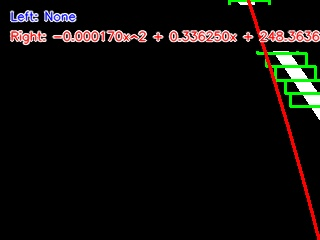
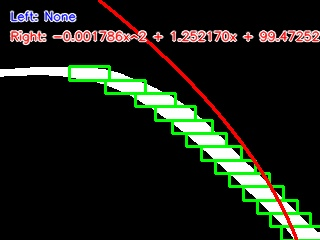
단순한 조향 알고리즘

Changed region(s): [[0.0, 0.0, 1.0, 1.0], [0.2812, 0.0, 0.4375, 0.175], [0.5, 0.1167, 0.7188, 0.175]]

diff --git a/client/슬라이딩윈도우용.py b/client/슬라이딩윈도우용.py
@@ -1,0 +1,164 @@
+import socketio
+import time
+import numpy as np
+import atexit
+from picamera2 import Picamera2
+from board import SCL, SDA
+import busio
+from gpiozero import DistanceSensor
+from adafruit_pca9685 import PCA9685
+from adafruit_motor import motor, servo
+import time
+import cv2
+
+class CarConfig:
+    # GPIO 핀 설정
+    MOTOR_M1_IN1 = 15
+    MOTOR_M1_IN2 = 14
+    TRIGGER_PIN = 23
+    ECHO_PIN = 24
+    
+    # 서보모터 설정
+    SERVO_STEERING_DEFAULT = 
+    CAMERA_HORIZONTAL_DEFAULT = 
+    CAMERA_VERTICAL_DEFAULT = 
+    SERVO_MIN_PULSE = 500
+    SERVO_MAX_PULSE = 2400
+    SERVO_RANGE = 160
+    
+    # PCA9685 설정
+    PCA_ADDRESS = 0x5f
+    PCA_FREQUENCY = 50
+    
+    # 카메라 설정
+    CAMERA_FORMAT = 'BGR888'
+    CAMERA_SIZE = (640, 480)
+    
+    # 서버 설정
+    SERVER_URL = 'http://192.168.0.:5000'
+
+class CarController:
+    def __init__(self):
+        self.init_hardware()
+        self.init_camera()
+        self.init_socket()
+        atexit.register(self.cleanup)
+    
+    def init_hardware(self):
+        # I2C 및 PCA9685 초기화
+        self.i2c = busio.I2C(SCL, SDA)
+        self.pca = PCA9685(self.i2c, address=CarConfig.PCA_ADDRESS)
+        self.pca.frequency = CarConfig.PCA_FREQUENCY
+        
+        # 모터 초기화
+        self.motor = motor.DCMotor(
+            self.pca.channels[CarConfig.MOTOR_M1_IN1],
+            self.pca.channels[CarConfig.MOTOR_M1_IN2]
+        )
+        self.motor.decay_mode = motor.SLOW_DECAY
+        
+        # 서보모터 초기화
+        self.init_servos()
+        
+        # 초음파 센서 초기화
+        self.distance_sensor = DistanceSensor(
+            echo=CarConfig.ECHO_PIN,
+            trigger=CarConfig.TRIGGER_PIN,
+            max_distance=2
+        )
+    
+    def init_servos(self):
+         # 조향 서보
+        self.steering = servo.Servo(
+            self.pca.channels[0],
+            min_pulse=CarConfig.SERVO_MIN_PULSE,
+            max_pulse=CarConfig.SERVO_MAX_PULSE,
+            actuation_range=CarConfig.SERVO_RANGE
+        )
+        self.steering.angle = CarConfig.SERVO_STEERING_DEFAULT
+        
+        # 카메라 서보
+        self.camera_horizontal = servo.Servo(
+            self.pca.channels[2],
+            min_pulse=CarConfig.SERVO_MIN_PULSE,
+            max_pulse=CarConfig.SERVO_MAX_PULSE,
+            actuation_range=CarConfig.SERVO_RANGE
+        )
+        self.camera_horizontal.angle = CarConfig.CAMERA_HORIZONTAL_DEFAULT
+        
+        self.camera_vertical = servo.Servo(
+            self.pca.channels[4],
+            min_pulse=CarConfig.SERVO_MIN_PULSE,
+            max_pulse=CarConfig.SERVO_MAX_PULSE,
+            actuation_range=CarConfig.SERVO_RANGE
+        )
+        self.camera_vertical.angle = CarConfig.CAMERA_VERTICAL_DEFAULT
+    
+    def init_camera(self):
+        self.camera = Picamera2()
+        self.camera.configure(self.camera.create_preview_configuration(
+            main={"format": CarConfig.CAMERA_FORMAT, "size": CarConfig.CAMERA_SIZE}
+        ))
+        self.camera.start()
+    
+    def init_socket(self):
+        self.sio = socketio.Client()
+        self.setup_socket_events()
+    
+    def setup_socket_events(self):
+        @self.sio.event
+        def connect():
+            print("서버에 연결되었습니다.")
+            
+        @self.sio.event
+        def disconnect():
+            print("서버와의 연결이 종료되었습니다.")
+            
+        @self.sio.on('registration_success')
+        def on_registration_success(data):
+            car_number = data['car_number']
+            print(f"자동차 등록 성공: 자동차 번호 {car_number}")
+            
+        @self.sio.on('registration_failed')
+        def on_registration_failed(data):
+            print("자동차 등록 실패:", data['message'])
+            
+        @self.sio.on('error')
+        def on_error(data):
+            print("에러 발생:", data['message'])
+            
+        @self.sio.on('data')
+        def on_data(data):
+            self.motor.throttle = data['speed']
+            self.steering.angle = CarConfig.CAMERA_HORIZONTAL_DEFAULT + data['angle']
+    
+    def cleanup(self):
+        print("프로그램 종료 중, 모터 초기화 중...")
+        self.motor.throttle = 0
+        self.steering.angle = CarConfig.SERVO_STEERING_DEFAULT
+        self.camera_vertical.angle = CarConfig.CAMERA_VERTICAL_DEFAULT
+        self.camera_horizontal.angle = CarConfig.CAMERA_HORIZONTAL_DEFAULT
+        self.pca.deinit()
+        print("모터 초기화 완료.")
+    
+    def run(self):
+        try:
+            self.sio.connect(CarConfig.SERVER_URL)
+            
+            while True:
+                frame = self.camera.capture_array()
+                _, buffer = cv2.imencode('.jpg', frame)
+                distance = self.distance_sensor.distance
+                self.sio.emit('frame', {
+                    'frame': buffer.tobytes(),
+                    'distance': distance
+                })
+                time.sleep(0.1)
+                
+        except Exception as e:
+            print(f"오류 발생: {e}")
+            return
+
+if __name__ == '__main__':
+    car = CarController()
+    car.run()

diff --git a/slidingWindow/steering_controller.py b/slidingWindow/steering_controller.py
@@ -1,0 +1,86 @@
+import numpy as np
+
+class SteeringController:
+    def __init__(self):
+        # 이미지 관련 (픽셀 단위)
+        self.image_center = 160          # 워핑된 이미지의 중앙점 (320/2)
+        self.lane_width_pixels = 320     # 워핑된 이미지에서의 차선 간 픽셀 거리
+        
+        # 실제 물리적 거리 (cm 단위)
+        self.lane_width_cm = 22          # 실제 차선 간 거리
+        self.camera_forward_distance = 30 # 차량 중심부터 카메라 인식 지점까지 거리
+        
+        # 픽셀당 실제 거리 비율 계산 (cm/pixel)
+        self.cm_per_pixel = self.lane_width_cm / self.lane_width_pixels
+        
+        # 조향 제어 관련
+        self.error_scaling_factor = 3.6  # 기하학적 계산 결과를 미세 조정
+        self.last_steering_angle = 0
+
+    def calculate_steering_angle(self, left_fit, right_fit):
+        try:
+            y_eval = int(240 * 0.6)
+            
+            if left_fit is not None and right_fit is not None:
+                left_x = left_fit[0] * y_eval**2 + left_fit[1] * y_eval + left_fit[2]
+                right_x = right_fit[0] * y_eval**2 + right_fit[1] * y_eval + right_fit[2]
+                center_x = (left_x + right_x) / 2
+            elif right_fit is not None:
+                right_x = right_fit[0] * y_eval**2 + right_fit[1] * y_eval + right_fit[2]
+                center_x = right_x - self.lane_width_pixels/2
+            elif left_fit is not None:
+                left_x = left_fit[0] * y_eval**2 + left_fit[1] * y_eval + left_fit[2]
+                center_x = left_x + self.lane_width_pixels/2
+            else:
+                return self.last_steering_angle
+                
+            # 픽셀 단위 오차
+            error_pixels = center_x - self.image_center
+            
+            # 실제 거리(cm) 단위로 변환
+            error_cm = error_pixels * self.cm_per_pixel
+            
+            # 기하학적 계산으로 기본 조향각 계산
+            base_angle = np.degrees(np.arctan2(error_cm, self.camera_forward_distance))
+            
+            # error_scaling_factor를 적용하여 조향각 미세 조정
+            steering_angle = base_angle * self.error_scaling_factor
+            
+            # 조향각 제한
+            max_angle = 60
+            steering_angle = np.clip(steering_angle, -max_angle, max_angle)
+            
+            # 급격한 조향 변화 방지
+            max_angle_change = 10
+            angle_diff = steering_angle - self.last_steering_angle
+            if abs(angle_diff) > max_angle_change:
+                steering_angle = self.last_steering_angle + np.sign(angle_diff) * max_angle_change
+                
+            self.last_steering_angle = steering_angle
+            return steering_angle
+            
+        except Exception as e:
+            print(f"조향각 계산 중 오류 발생: {e}")
+            return self.last_steering_angle
+
+    def visualize_steering(self, image, steering_angle):
+        """
+        조향 정보를 이미지에 시각화
+        """
+        import cv2
+        
+        # 중앙선 그리기
+        cv2.line(image, (self.image_center, 240), (self.image_center, 0), (0, 255, 0), 1)
+        
+        # 조향 방향 화살표 그리기
+        arrow_length = 50
+        arrow_x = self.image_center + int(arrow_length * np.sin(np.radians(steering_angle)))
+        arrow_y = 200  # 이미지 상단에서 40픽셀 아래
+        cv2.arrowedLine(image, (self.image_center, 240), (arrow_x, arrow_y), 
+                       (0, 0, 255), 2)
+        
+        # 조향각 텍스트 표시
+        cv2.putText(image, f"Steering: {steering_angle:.1f}deg", (10, 30), 
+                   cv2.FONT_HERSHEY_SIMPLEX, 1, (255, 255, 255), 2)
+        
+        return image 

diff --git a/slidingWindow/main.py b/slidingWindow/main.py
@@ -1,8 +1,10 @@
 import cv2
 import numpy as np
+import scipy as sp
 
 # image_setting.py와 sliding_window.py 모듈에서 필요한 클래스와 함수 가져오기
 from sliding_window import SlidingWindow
+from steering_controller import SteeringController
 
 from flask import Flask
 from flask_socketio import SocketIO, emit
@@ -19,6 +21,9 @@ frame_number = 0
 # 저장 디렉토리 설정
 OUTPUT_DIR = "frames"
 os.makedirs(OUTPUT_DIR, exist_ok=True)
+
+# 전역 변수에 추가
+steering_controller = SteeringController()
 
 @socketio.on('connect')
 def handle_connect():
@@ -58,7 +63,16 @@ def handle_frame(data):
 
         # 슬라이딩 윈도우 적용
         polynomial_image, left_fit, right_fit = window.fit_polynomial(morphological_transformation_image, capture_frame)
+        
+        # polynomial_image 복사
+        steering_visualization = polynomial_image.copy()
+        
+        # 조향 정보를 이미지에 시각화
+        steering_angle = steering_controller.calculate_steering_angle(left_fit, right_fit)
+        steering_visualization = steering_controller.visualize_steering(steering_visualization, steering_angle)
 
+        socketio.emit('data', {'angle': -steering_angle, 'speed': 0.3})
+        
         # 좌우 차선 위치 계산
         if capture_frame % 10 == 0:
             lpos = window.warp_point(window.l_pos)
@@ -85,6 +99,9 @@ def handle_frame(data):
         cv2.imwrite(os.path.join(save_dir, "step5_adaptive_threshold.jpg"), lane)
         cv2.imwrite(os.path.join(save_dir, "step6_morphological.jpg"), morphological_transformation_image)
         cv2.imwrite(os.path.join(save_dir, "step7_polynomial_fitted.jpg"), polynomial_image)
+        cv2.imwrite(os.path.join(save_dir, "step8_steering_visualization.jpg"), steering_visualization)
+        
+        
         
     except Exception as e:
         print(f"프레임 처리 중 오류 발생: {e}")

diff --git a/slidingWindow/sliding_window.py b/slidingWindow/sliding_window.py
@@ -33,12 +33,12 @@ class SlidingWindow:
         warp_image_width = HALF_WIDTH
         warp_image_height = HALF_HEIGHT
 
-        warp_x_margin = 160
+        warp_x_margin = 240
         warp_y_margin = 3
 
-        src_pts1 = (240 - warp_x_margin, HALF_HEIGHT + 60)
+        src_pts1 = (240 - warp_x_margin, HALF_HEIGHT + 20)
         src_pts2 = (0, IMAGE_HEIGHT - 20)
-        src_pts3 = (400 + warp_x_margin, HALF_HEIGHT + 60)
+        src_pts3 = (400 + warp_x_margin, HALF_HEIGHT + 20)
         src_pts4 = (IMAGE_WIDTH, IMAGE_HEIGHT - 20)
 
         dist_pts1 = (0, 0)

diff --git a/requirements/요구사항.md b/requirements/요구사항.md
@@ -1,0 +1,52 @@
+# 개요
+
+라즈베리파이 자동차를 사용해서 차선 추출 및 조향 알고리즘 구현하는것이 목표
+
+# 차량 크기
+
+- 차의 세로길이는 20cm
+- 차의 가로길이는 15cm
+
+  - 카메라가 보이는 차선은 차의 중심으로부터 30cm 앞의 차선
+
+- 즉, 보이는 위치부터 안보이는 위치 아래쪽으로 30cm만큼 직선이 있다고 생각하고 조향해야 함
+  - 곡선이 있다고 바로 조향하면 안됨
+
+# 사전지식
+
+1. 라즈베리파이 자동차를 사용
+
+   - 10frame으로 처리중, 640x480 이미지 사용
+   - 차선 중앙 위치 계산 시 차선 폭은 22cm
+   - 카메라가 차량 바로 밑의 차선을 인식하기 어려운 화각임.
+
+2. 직접 만든 자동차 트랙 사용
+
+   - 차선의 각도가 일정하지 않음
+   - 차선의 각도가 급격하게 변하는 부분이 있음.
+   - 곡선 주행을 하는 경우 오른쪽 차선이 왼쪽으로 넘어가서, sliding window에서 왼쪽 차선으로 처리하는 경우가 있음. 각도를 강하게 조절해야 함.
+     - 오른쪽 차선 혹은 왼쪽 차선만 보이는 경우 조향하는 방식을 조정해야 함.
+     - 바깥쪽 차선이 아닌, 안쪽 차선에 붙어서 조향하는게 목표
+
+3. Sliding Window에서 x,y 좌표 생성
+   - 320x240 이미지의 크기로 변경
+4. 2차 polynomial 형태의 left_fit, right_fit 생성(sliding_window.py의 fit_polynomial 함수 리턴값)
+   - 왼쪽 차선 혹은 오른쪽 차선이 없는 경우도 있음.
+   - 그래서 left_fit, right_fit이 None인 경우도 있음.
+
+# 요구사항
+
+1. 차량 조향 알고리즘 구현
+
+   - left_fit, right_fit을 이용하여 차선 중앙 위치 계산
+   - 차선 중앙 위치와 차량 중앙 위치의 오차 계산
+   - 오차를 바탕으로 조향 각도 계산
+   - 조향 각도를 바탕으로 차량 조향
+   - right_fit만 있는 경우 왼쪽 차선 중앙 위치 계산
+   - left_fit만 있는 경우 오른쪽 차선 중앙 위치 계산
+   - 두 차선 모두 안보이는 경우 이전 조향 각도 유지
+
+2. 차량 조향 알고리즘 이미지에 표시
+   - 차선 중앙 위치 표시
+   - 차량 중앙 위치 표시
+   - 조향 각도 화살표 및 숫자로 표시
